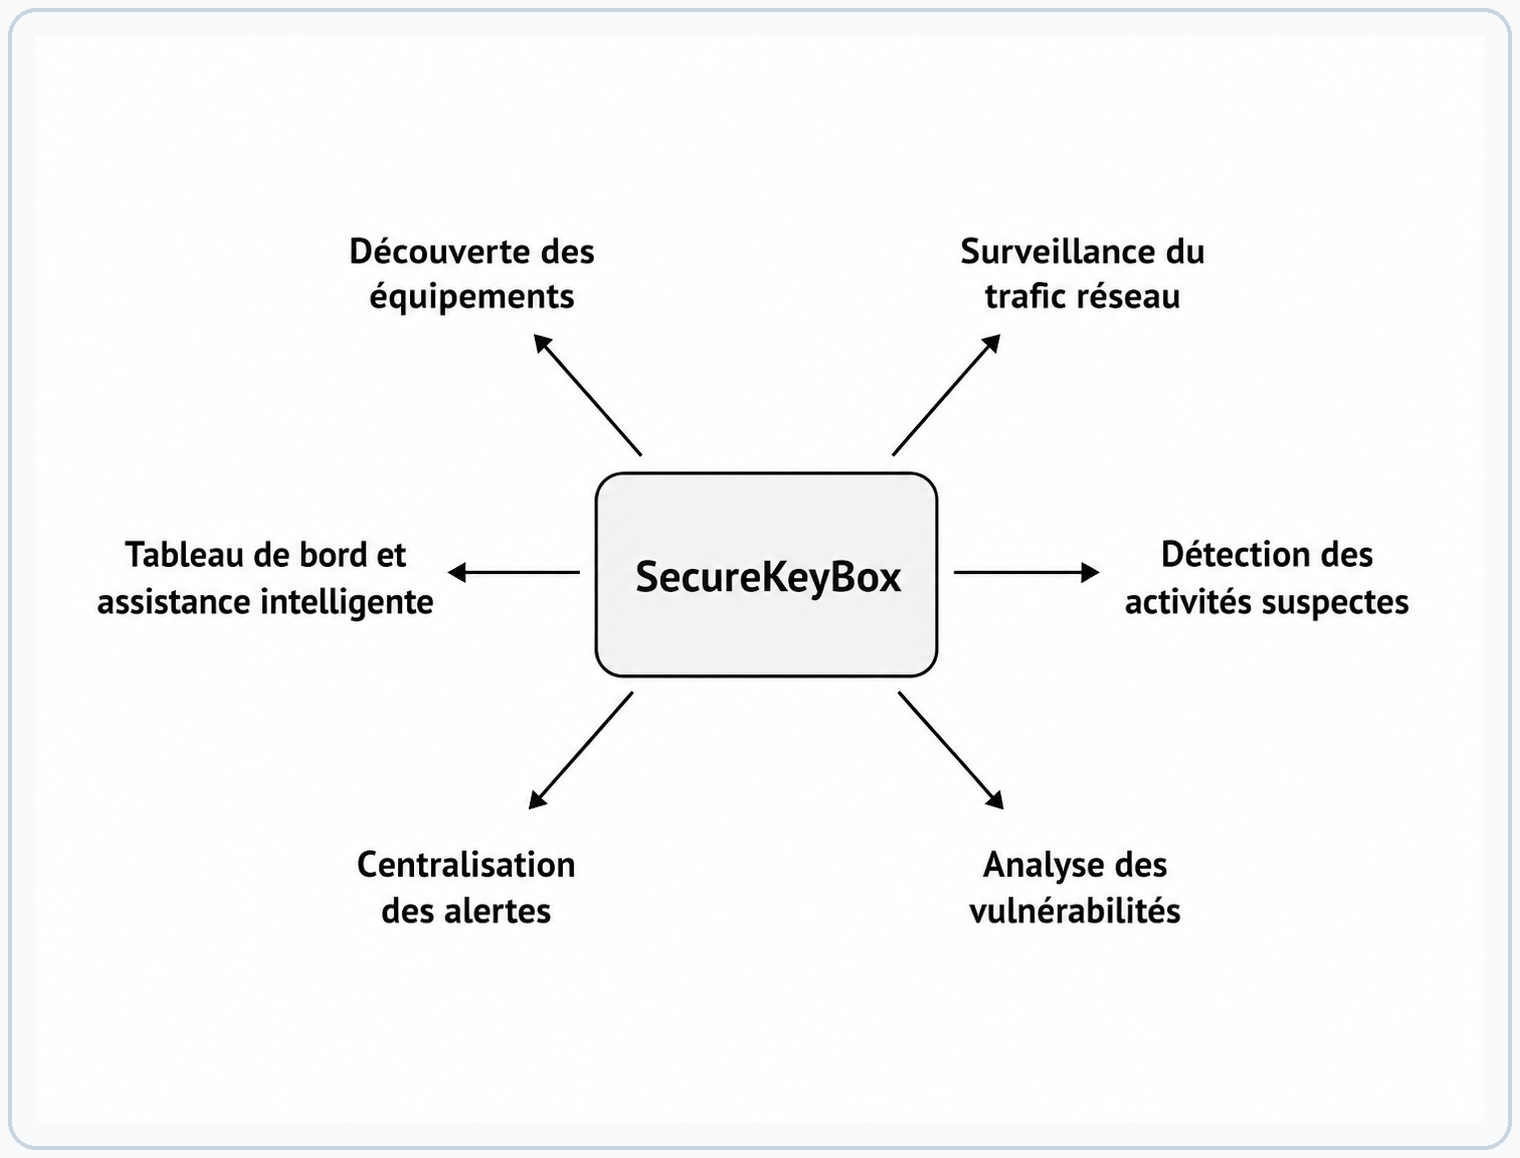
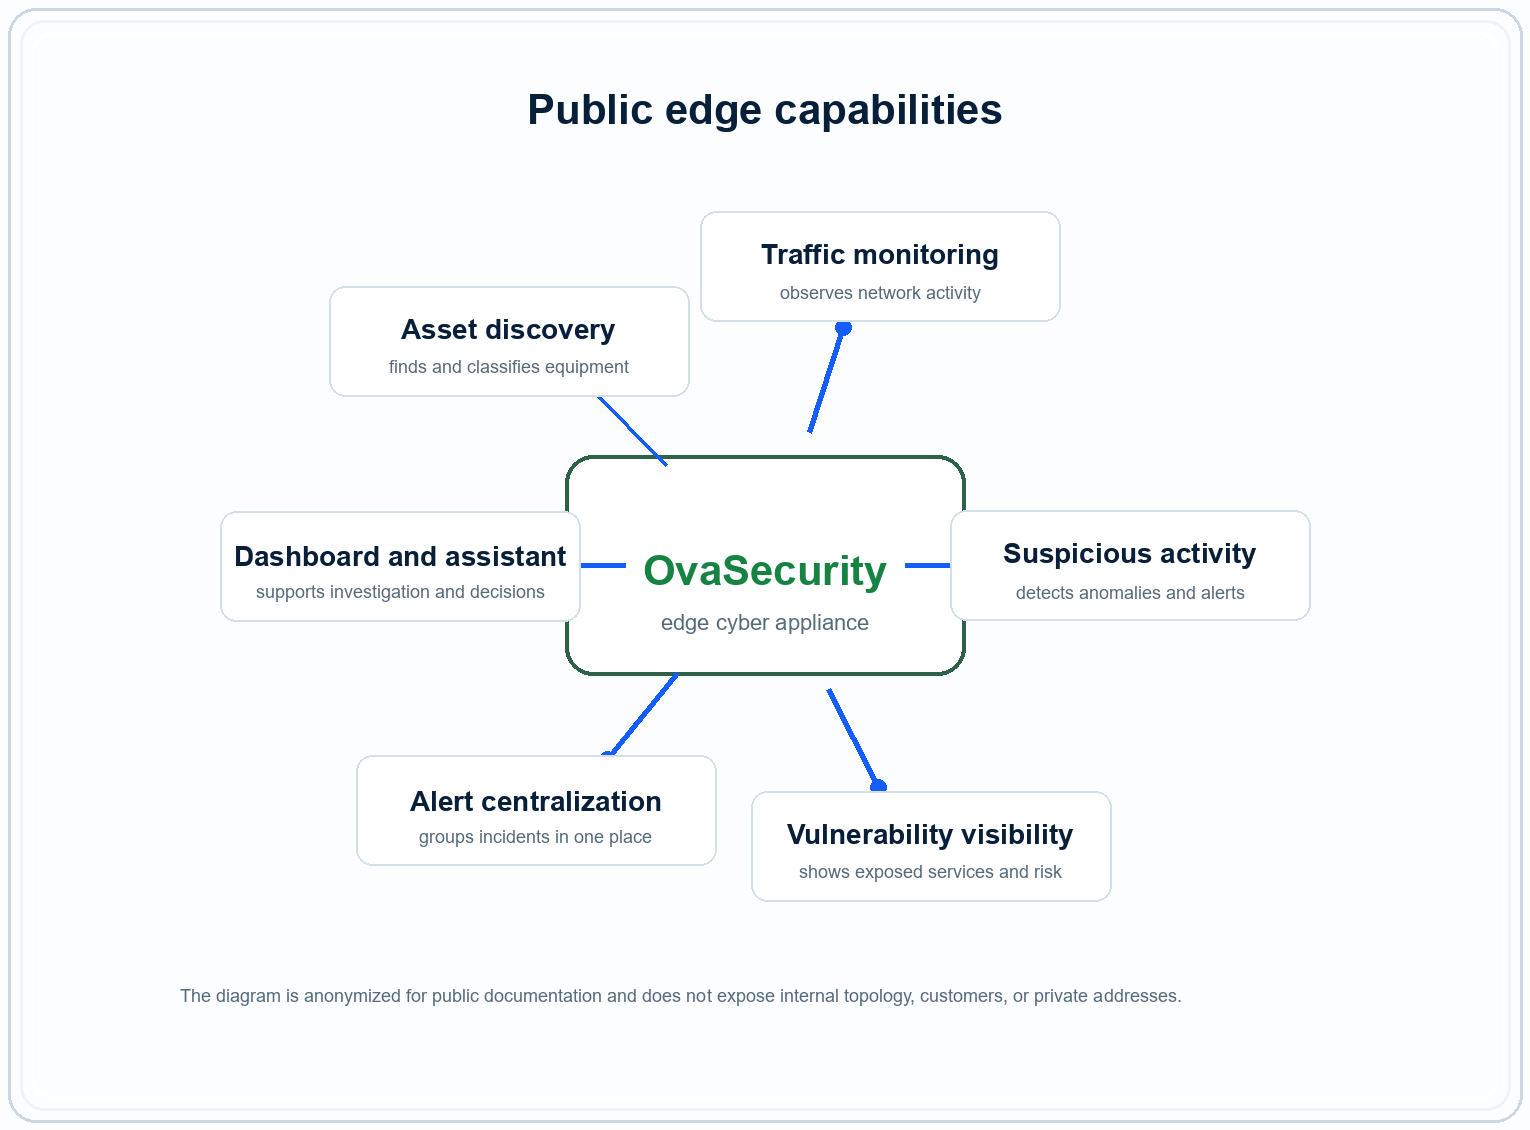
Clean public architecture visuals

diff --git a/README.md b/README.md
@@ -10,6 +10,7 @@ This repository presents the architecture at a public level. It does not contain
 - [Edge network position](#edge-network-position)
 - [Internal architecture](#internal-architecture)
 - [Functional modules](#functional-modules)
+- [Product dashboard views](#product-dashboard-views)
 - [Technology role map](#technology-role-map)
 - [How the system works](#how-the-system-works)
 - [Technology details](#technology-details)
@@ -17,7 +18,6 @@ This repository presents the architecture at a public level. It does not contain
 - [Log integrity and auditability](#log-integrity-and-auditability)
 - [Assistant and knowledge layer](#assistant-and-knowledge-layer)
 - [Resilience mode](#resilience-mode)
-- [Operational lifecycle](#operational-lifecycle)
 - [Security boundaries](#security-boundaries)
 - [License](#license)
 
@@ -55,8 +55,6 @@ Ova Security is designed to sit at the edge of the protected network. It receive
 
 The platform is structured in layers. Each layer has a clear responsibility so the solution can remain understandable, auditable, and maintainable.
 
-![Ova Security internal architecture](assets/report-diagrams/framed/system-architecture.png)
-
 ### Layer responsibilities
 
 | Layer | Responsibility |
@@ -70,8 +68,6 @@ The platform is structured in layers. Each layer has a clear responsibility so t
 
 Ova Security is presented as a product, not as a collection of disconnected tools. The modules below form one operational chain.
 
-![Ova Security use case architecture](assets/report-diagrams/framed/use-case-architecture.png)
-
 | Module | Purpose | Typical output |
 | --- | --- | --- |
 | Firewall control | Blocks unauthorized inbound or lateral traffic according to validated rules. | Allowed/refused flows, rule status, blocked sources. |
@@ -81,6 +77,14 @@ Ova Security is presented as a product, not as a collection of disconnected tool
 | Log management | Collects, rotates, compresses, and retains operational logs. | Searchable event history and controlled storage usage. |
 | Integrity register | Chains and signs important events to detect later alteration. | Verifiable audit trail. |
 | SOC assistant | Explains alerts, reports, logs, and procedures in operator language. | Summaries, diagnostic steps, recommended actions. |
+
+## Product dashboard views
+
+The interface gives operators a direct view of the appliance state, detected equipment, active services, incidents, and audit indicators. The screenshots below are public documentation views with anonymized names and documentation IP addresses.
+
+![Ova Security dashboard overview](assets/report-diagrams/framed/dashboard-overview.png)
+
+![Ova Security detected equipment](assets/report-diagrams/framed/dashboard-assets.png)
 
 ## Technology role map
 
@@ -255,21 +259,6 @@ The resilience cycle follows six stages:
 | Minimal protection | Keep essential filtering and local protection active even when advanced services are degraded. |
 | Recovery | Restart, resynchronize, or restore affected services in a controlled way. |
 | Return to normal | Validate restored services and resume standard operation with updated evidence. |
-
-## Operational lifecycle
-
-The architecture supports a continuous cycle: observe, understand, decide, act, and prove.
-
-![Ova Security operational lifecycle](assets/report-diagrams/framed/operational-sequence.png)
-
-| Phase | Description |
-| --- | --- |
-| Observe | Collect network, service, system, and security signals. |
-| Correlate | Link events to assets, services, rules, and previous activity. |
-| Prioritize | Highlight the most important risks first. |
-| Decide | Let the operator validate rules, exceptions, and remediation actions. |
-| Enforce | Apply firewall or operational decisions in a controlled way. |
-| Prove | Store a signed trace of sensitive changes and security decisions. |
 
 ## Security boundaries
 
